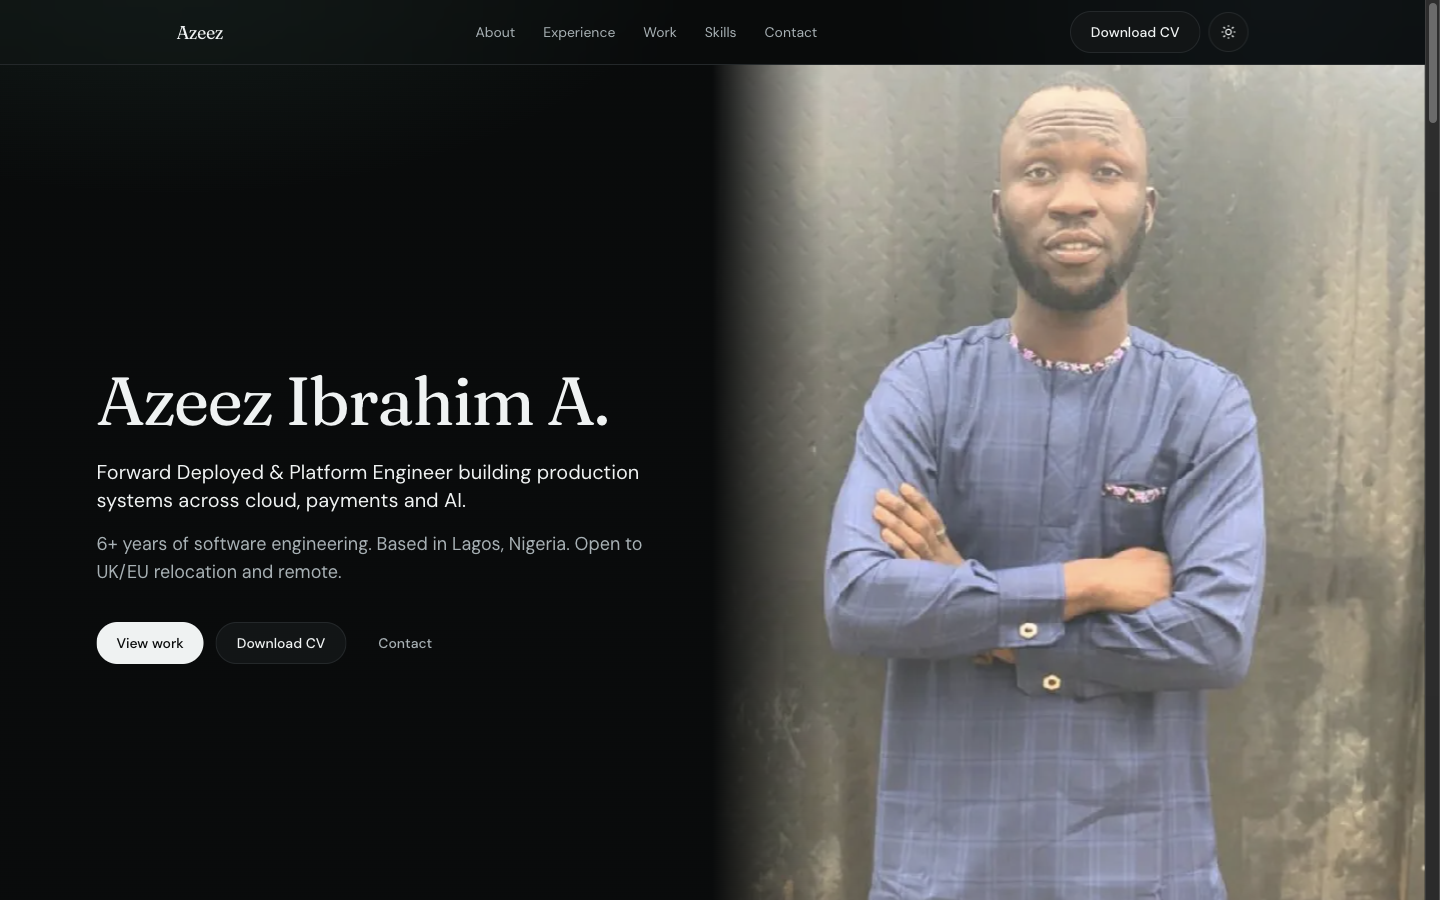
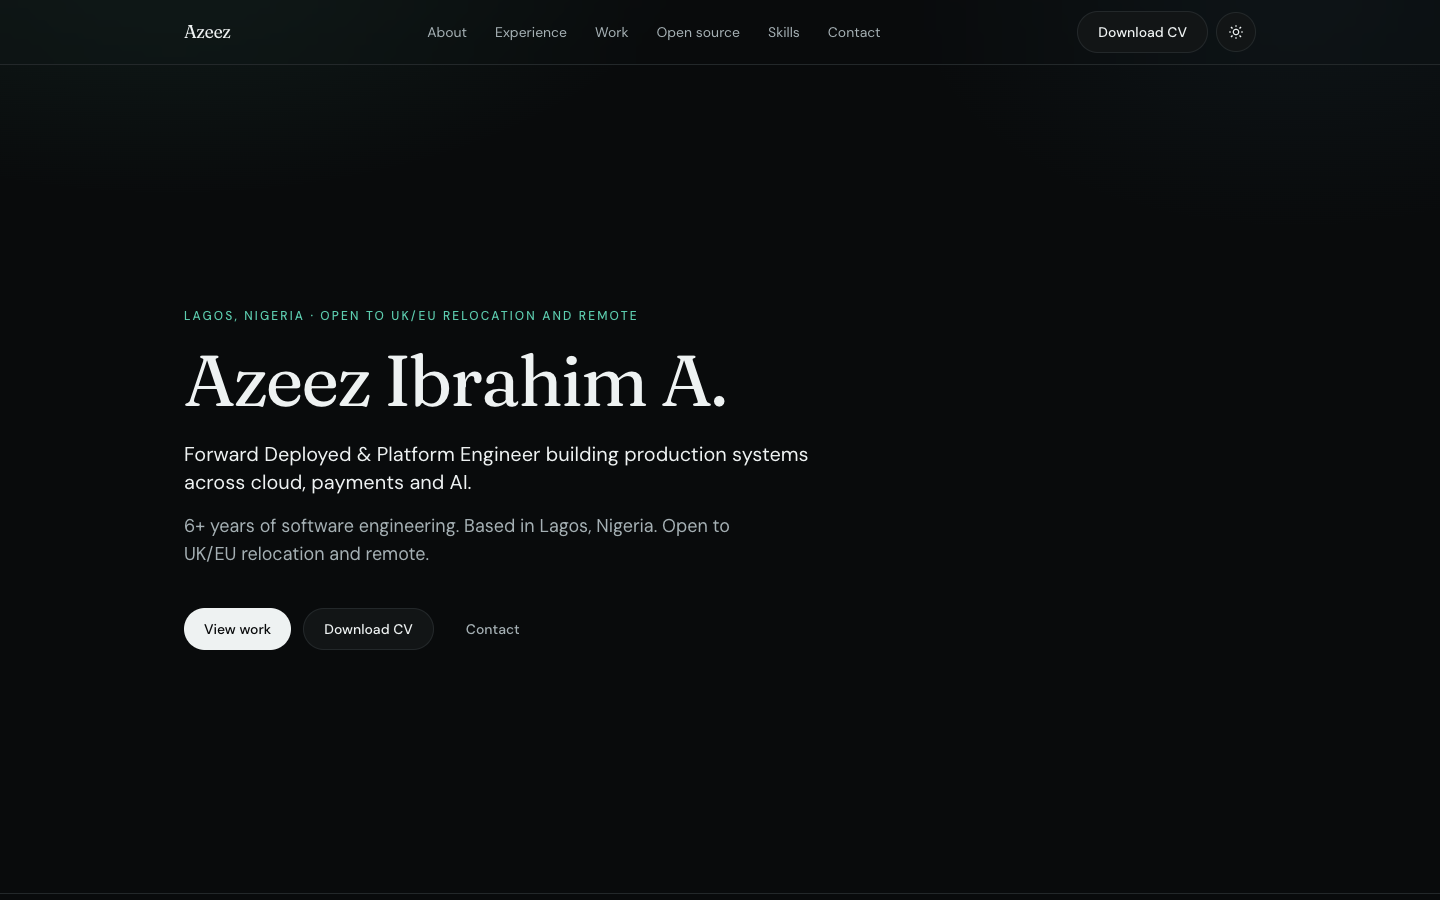
Refine portfolio hero, education dates, and open source
Drop the full-bleed portrait for a text-first hero, fix ND/AltSchool years, and add Port Terraform contributions plus GitDeclutter.

diff --git a/src/data/site.ts b/src/data/site.ts
@@ -102,12 +102,106 @@ export const projects = [
     tags: ['Health', 'Community'],
   },
   {
+    name: 'GitDeclutter',
+    url: 'https://github.com/kunmi02/git-declutter',
+    summary:
+      'Go CLI that analyzes stale local Git branches and classifies each as SAFE, REVIEW, KEEP or PROTECTED before anything is deleted. Uses local history, remote tracking state, and GitHub/GitLab PR metadata.',
+    impact: 'Side project — safe branch cleanup',
+    tags: ['Go', 'CLI', 'Developer tools'],
+  },
+  {
     name: 'UI blood-donor app',
     url: null,
     summary:
       'Final-year Android app to locate willing blood donors, find nearest blood banks, and register as a volunteer.',
     impact: 'University of Ibadan final-year project',
     tags: ['Android', 'Health'],
+  },
+] as const;
+
+export const openSource = [
+  {
+    name: 'Port Terraform Provider',
+    repo: 'port-labs/terraform-provider-port-labs',
+    url: 'https://github.com/port-labs/terraform-provider-port-labs',
+    prCount: 7,
+    contributions: [
+      {
+        number: 340,
+        url: 'https://github.com/port-labs/terraform-provider-port-labs/pull/340',
+        description:
+          'Added `port_organization` Terraform resource to manage organization settings.',
+      },
+      {
+        number: 342,
+        url: 'https://github.com/port-labs/terraform-provider-port-labs/pull/342',
+        description:
+          'Expanded organization resource to support additional API settings, announcements and permissions.',
+      },
+      {
+        number: 315,
+        url: 'https://github.com/port-labs/terraform-provider-port-labs/pull/315',
+        description: 'Fixed importing action dataset rules containing primitive values.',
+      },
+      {
+        number: 306,
+        url: 'https://github.com/port-labs/terraform-provider-port-labs/pull/306',
+        description: 'Fixed blueprint permissions import.',
+      },
+      {
+        number: 303,
+        url: 'https://github.com/port-labs/terraform-provider-port-labs/pull/303',
+        description: 'Improved test coverage for JQ array minimum and maximum constraints.',
+      },
+      {
+        number: 301,
+        url: 'https://github.com/port-labs/terraform-provider-port-labs/pull/301',
+        description: 'Added dynamic JQ expression support for array min/max items.',
+      },
+      {
+        number: 292,
+        url: 'https://github.com/port-labs/terraform-provider-port-labs/pull/292',
+        description: 'Added Terraform-based organization secret management.',
+      },
+    ],
+  },
+  {
+    name: 'Port Experimental – Terraform Import Generator',
+    repo: 'port-experimental/terraform-import-generator',
+    url: 'https://github.com/port-experimental/terraform-import-generator',
+    prCount: 6,
+    contributions: [
+      {
+        number: 7,
+        url: 'https://github.com/port-experimental/terraform-import-generator/pull/7',
+        description: 'Added system blueprint support.',
+      },
+      {
+        number: 8,
+        url: 'https://github.com/port-experimental/terraform-import-generator/pull/8',
+        description: 'Handled installation IDs containing whitespace.',
+      },
+      {
+        number: 9,
+        url: 'https://github.com/port-experimental/terraform-import-generator/pull/9',
+        description: 'Added configurable base URL support.',
+      },
+      {
+        number: 10,
+        url: 'https://github.com/port-experimental/terraform-import-generator/pull/10',
+        description: 'Fixed alias handling.',
+      },
+      {
+        number: 11,
+        url: 'https://github.com/port-experimental/terraform-import-generator/pull/11',
+        description: 'Fixed system blueprint import.',
+      },
+      {
+        number: 12,
+        url: 'https://github.com/port-experimental/terraform-import-generator/pull/12',
+        description: 'Fixed entity import page.',
+      },
+    ],
   },
 ] as const;
 
@@ -129,12 +223,12 @@ export const education = [
   {
     school: 'LASUSTECH',
     credential: 'ND Computer Science, Distinction',
-    period: null,
+    period: '2012 – 2014',
   },
   {
     school: 'AltSchool Africa',
     credential: 'Cloud Engineering Diploma',
-    period: '2025',
+    period: '2024 – 2025',
   },
 ] as const;
 
